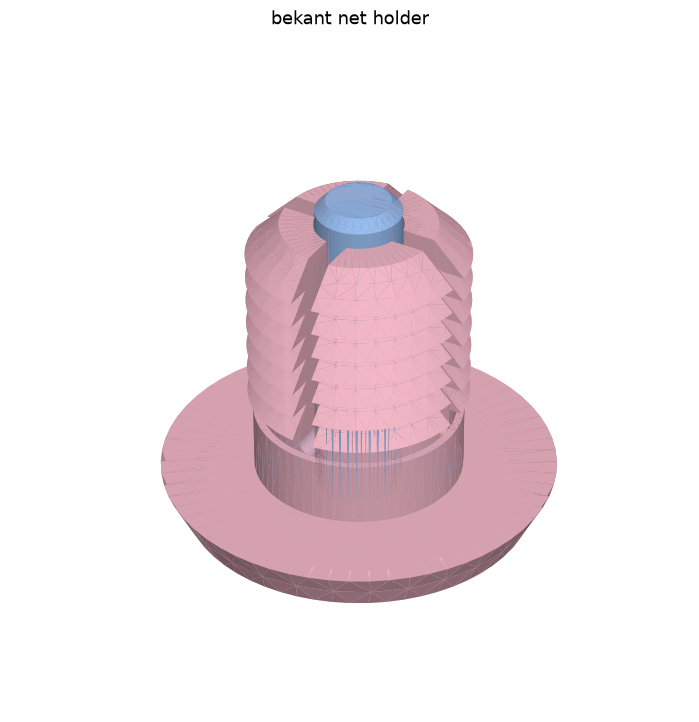
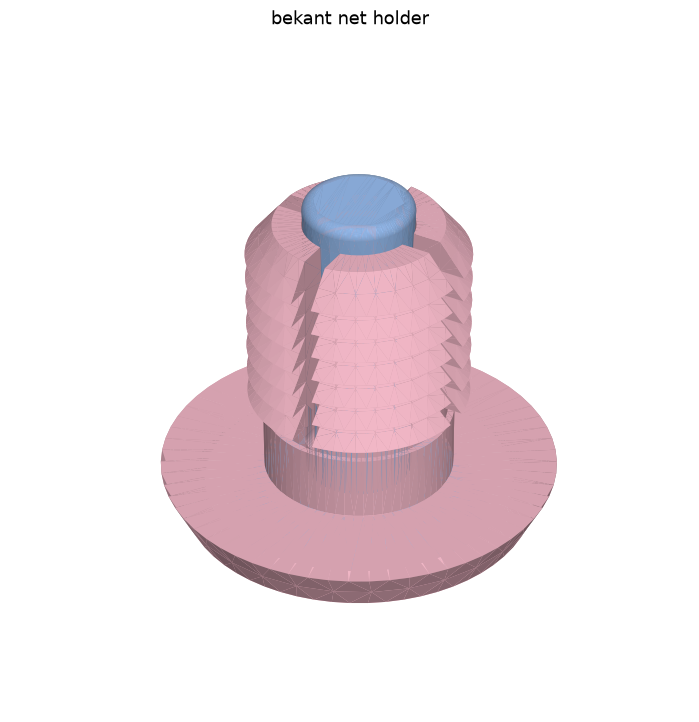
bekant-net-holder: the pin at its measured size, and a plug sized to the desk's 9 mm hole
The pin's shaft is 4.75 mm, widens to 4.98 mm at its end and rounds out into
the head, as measured on the model of a pin that fits. The plug's collar slides
into the 9 mm hole, and its hole follows the pin.

diff --git a/parts/bekant-net-holder/part.py b/parts/bekant-net-holder/part.py
@@ -26,34 +26,41 @@ FITS = chosen().fits
 CUT = 1  # a cut runs this far past what it cuts through, so it leaves no skin
 MIN = (Align.CENTER, Align.CENTER, Align.MIN)
 
-# The plug. Its sizes are the ones of a print that fits the desk's hole.
-FLANGE = 18  # the flange across, where it lies against the desk
-RIM = 16  # the flange across at its rim, the edge away from the desk: its side slopes
-FLANGE_THICK = 2  # the flange, from its rim to the desk
-RECESS = 1  # the recess inside the rim, deep; the pin's head sits in it
-RECESS_FLOOR = 14  # that recess across at its floor: it widens to RIM at the rim
-COLLAR = 9.5  # the round shaft across, next to the flange
-COLLAR_HEIGHT = 3  # that shaft, up from the flange
-NECK = 8.8  # the shaft across between the collar and the first barb
-NECK_HEIGHT = 1  # that neck, up from the collar
-BARB = 10  # a barb across at its wide end, which faces the flange
-BARB_ROOT = 7.6  # a barb across at its narrow end
-BARB_PITCH = 1.2  # a barb, up
-BARBS = 6
-TIP = 7  # the prongs across at their end
-TIP_HEIGHT = 1.5  # the last barb, which narrows to TIP
-HOLE = 4  # the hole through the plug, which the pin goes into
-SLOT = 1  # each of the two slots that split the shaft into four prongs, wide
-
-# The pin.
+# The pin. Its sizes are measured on the model of a pin that fits, Ikea Bekant Cable Holder Pin.stl.
 HEAD = 12  # the pin's head across
 HEAD_THICK = 2.3  # the head, from its outer face to the face that lies in the recess
 HEAD_EDGE = 0.3  # the head's side is straight this far up from its outer face, then slopes in
 HEAD_FLAT = 8.76  # the head's face in the recess, across its flat
 HEAD_ROUND = 1  # the radius the head's side rounds over with to that face
-PIN = HOLE - 2 * FITS.printed_grip  # the pin's shaft across: it pushes into the hole and holds
+PIN = 4.75  # the pin's shaft across
+PIN_ROOT = 0.75  # the radius the shaft rounds out with into the head
 PIN_LENGTH = 14.9  # the shaft, from the head to its end
-PIN_TIP = 0.5  # the shaft narrows this much at its end, over as much length, so it finds the hole
+PIN_STRAIGHT = 11.3  # the shaft is PIN across this far from the head, then widens
+PIN_END = 4.98  # the shaft across at its widest, next to its end
+PIN_TIP = 0.5  # the radius the shaft's end rounds over with, so it finds the hole
+
+# The plug.
+DESK_HOLE = 9  # the hole under the desk across, the user's measurement on the Bekant
+SLIDE = 0.2  # the room around the collar in that hole, on each side: it slides in
+FLANGE = 18  # the flange across, where it lies against the desk
+RIM = 16  # the flange across at its rim, the edge away from the desk: its side slopes
+FLANGE_THICK = 2  # the flange, from its rim to the desk
+RECESS = 1  # the recess inside the rim, deep; the pin's head sits in it
+RECESS_FLOOR = 14  # that recess across at its floor: it widens to RIM at the rim
+COLLAR = DESK_HOLE - 2 * SLIDE  # the round shaft across, next to the flange
+COLLAR_HEIGHT = 3  # that shaft, up from the flange
+NECK = 8  # the shaft across between the collar and the first barb
+NECK_HEIGHT = 1  # that neck, up from the collar
+BARB = 10  # a barb across at its wide end, which faces the flange: wider than the desk's hole, so it catches
+BARB_ROOT = 7.6  # a barb across at its narrow end
+BARB_PITCH = 1.2  # a barb, up
+BARBS = 6
+TIP = 7.6  # the prongs across at their end
+TIP_HEIGHT = 1.5  # the last barb, which narrows to TIP
+HOLE = PIN + 2 * FITS.printed_grip  # the hole through the plug: the pin pushes into it and holds
+HOLE_END = PIN_END + 2 * FITS.printed_grip  # the hole across where the pin is widest
+HOLE_EDGE = PIN_ROOT + SLIDE  # the hole's edge in the recess is cut away this far, so it clears the pin's root
+SLOT = 1  # each of the two slots that split the shaft into four prongs, wide
 
 RECESS_SLOPE = (RIM - RECESS_FLOOR) / 2 / RECESS  # how much the recess widens for every mm toward the rim
 COLLAR_Z = FLANGE_THICK  # where the collar starts
@@ -61,6 +68,8 @@ NECK_Z = COLLAR_Z + COLLAR_HEIGHT  # where the neck starts, and the slots
 BARB_Z = NECK_Z + NECK_HEIGHT  # where the first barb starts
 TIP_Z = BARB_Z + BARBS * BARB_PITCH  # where the last barb starts
 TOP = TIP_Z + TIP_HEIGHT  # the prongs' end
+WIDENING = PIN_LENGTH - PIN_STRAIGHT - PIN_TIP  # the length the pin's shaft widens over, and the hole with it
+WIDE_Z = RECESS + PIN_STRAIGHT  # where the pin's shaft starts to widen
 HEAD_Z = RECESS - HEAD_THICK  # the head's outer face, which is below the rim
 VIEWS = (
     *plate.ANGLE,
@@ -85,7 +94,12 @@ def plug():
     for i in range(BARBS):
         shaft += Pos(0, 0, BARB_Z + i * BARB_PITCH) * Cone(BARB / 2, BARB_ROOT / 2, BARB_PITCH, align=MIN)
     shaft += Pos(0, 0, TIP_Z) * Cone(BARB / 2, TIP / 2, TIP_HEIGHT, align=MIN)
-    hole = Pos(0, 0, -CUT) * Cylinder(HOLE / 2, TOP + 2 * CUT, align=MIN)
+    # The hole follows the pin: straight, then wider. The prongs bend apart to let the pin's wide end through the
+    # straight length. The wide lengths run past the prongs' end when the pin does.
+    hole = Pos(0, 0, -CUT) * Cylinder(HOLE / 2, WIDE_Z + CUT, align=MIN)
+    hole += Pos(0, 0, WIDE_Z) * Cone(HOLE / 2, HOLE_END / 2, WIDENING, align=MIN)
+    hole += Pos(0, 0, WIDE_Z + WIDENING) * Cylinder(HOLE_END / 2, TOP + CUT, align=MIN)
+    hole += Pos(0, 0, RECESS) * Cone(HOLE / 2 + HOLE_EDGE, HOLE / 2, HOLE_EDGE, align=MIN)
     return flange + shaft - recess - hole - slot() - Rot(0, 0, 90) * slot()
 
 
@@ -98,12 +112,27 @@ def head_profile():
     return make_hull((edge + middle + corner).edges())
 
 
+def root_profile():
+    """Half the round between the shaft and the head from the side, the head's flat face at the sketch's y = 0."""
+    corner = Pos(PIN / 2, 0) * Rectangle(PIN_ROOT, PIN_ROOT, align=Align.MIN)
+    return corner - Pos(PIN / 2 + PIN_ROOT, PIN_ROOT) * Circle(PIN_ROOT)
+
+
+def tip_profile():
+    """Half the shaft's round end from the side, its widest at the sketch's y = 0."""
+    flat = PIN_END / 2 - PIN_TIP  # the end's flat face, from the middle
+    quarter = Pos(flat, 0) * Circle(PIN_TIP) & Pos(flat, 0) * Rectangle(PIN_TIP, PIN_TIP, align=Align.MIN)
+    return Rectangle(flat, PIN_TIP, align=Align.MIN) + quarter
+
+
 def pin():
     head = Pos(0, 0, HEAD_Z) * revolve(Plane.XZ * head_profile(), Axis.Z)
-    straight = HEAD_THICK + PIN_LENGTH - PIN_TIP  # the shaft starts at the head's outer face, inside the head
-    shaft = Pos(0, 0, HEAD_Z) * Cylinder(PIN / 2, straight, align=MIN)
-    tip = Pos(0, 0, HEAD_Z + straight) * Cone(PIN / 2, PIN / 2 - PIN_TIP, PIN_TIP, align=MIN)
-    return head + shaft + tip
+    # The shaft starts at the head's outer face, inside the head.
+    shaft = Pos(0, 0, HEAD_Z) * Cylinder(PIN / 2, HEAD_THICK + PIN_STRAIGHT, align=MIN)
+    root = Pos(0, 0, RECESS) * revolve(Plane.XZ * root_profile(), Axis.Z)
+    wide = Pos(0, 0, WIDE_Z) * Cone(PIN / 2, PIN_END / 2, WIDENING, align=MIN)
+    tip = Pos(0, 0, RECESS + PIN_LENGTH - PIN_TIP) * revolve(Plane.XZ * tip_profile(), Axis.Z)
+    return head + shaft + root + wide + tip
 
 
 def main():

diff --git a/parts/bekant-net-holder/README.md b/parts/bekant-net-holder/README.md
@@ -17,24 +17,32 @@ keeps its prongs apart, so the barbs stay in the hole.
 | `plug` | 1 | Standing on its flange's rim, prongs up | Under the recess's floor, from the plate only |
 | `pin` | 1 | Standing on its head, shaft up | None |
 
-The plug's flange is 18 mm across against the desk and 16 mm at its rim, 2 mm thick. Inside the
-rim is a recess 1 mm deep, 14 mm across at its floor, which the pin's head sits in. The shaft is
-12.7 mm long: a 9.5 mm collar, 3 mm high, an 8.8 mm neck, 1 mm high, and seven barbs. Each barb
-is 10 mm across at its flat face, which faces the flange, and narrows away from it. Two slots,
-1 mm wide, cross the shaft from the collar to its end and split it into four prongs. A 4 mm hole
-runs through the middle.
+The hole under the desk is 9 mm across. The plug's flange is 18 mm across against the desk and
+16 mm at its rim, 2 mm thick. Inside the rim is a recess 1 mm deep, 14 mm across at its floor,
+which the pin's head sits in. The shaft is 12.7 mm long: an 8.6 mm collar, 3 mm high, which
+slides into the desk's hole with 0.2 mm on either side, an 8 mm neck, 1 mm high, and seven barbs.
+Each barb is 10 mm across at its flat face, which faces the flange, and narrows away from it. The
+barbs are wider than the desk's hole: the prongs bend in to pass it, and the barbs catch behind
+it. Two slots, 1 mm wide, cross the shaft from the collar to its end and split it into four
+prongs. The wall of a prong is 1.3 mm at its thinnest, between two barbs.
 
 The pin's head is 12 mm across and 2.3 mm thick. Its shaft is 14.9 mm long and ends 1.2 mm past
-the prongs. The shaft is the hole less the `printed_grip` fit from `printers.toml` on either
-side, 3.9 mm on the P2S in PLA: it pushes in firmly and holds, so the pin does not fall out under
-the desk. Its end narrows by 0.5 mm, so it finds the hole.
+the prongs. It is 4.75 mm across for 11.3 mm from the head, then widens to 4.98 mm next to its
+round end. Where it meets the head it rounds out with a radius of 0.75 mm.
+
+The hole through the plug follows the pin: the pin's shaft and the `printed_grip` fit from
+`printers.toml` on either side, 4.85 mm on the P2S in PLA, widening with the pin toward the
+prongs' end. The pin pushes in firmly and holds, so it does not fall out under the desk. Its wide
+end bends the prongs apart on its way through the straight length. The hole's edge in the recess
+is cut away at 45°, so it clears the round at the pin's head.
 
 The plug prints standing, since it is round. Its layers lie across the prongs, which bend in on
 their way into the desk. The recess's floor hangs 1 mm over the plate and prints
 on supports that stand on the plate (`enable_support`, `support_on_build_plate_only`). The barbs'
 flat faces are ledges of 1.2 mm and print without supports.
 
-The pin prints standing on its head. Its shaft only fills the hole and takes no bending.
+The pin prints standing on its head. Its shaft only fills the hole and takes no bending. It
+widens by 0.1 mm a side over 3.1 mm, which prints without supports.
 
 ## Putting it together
 
